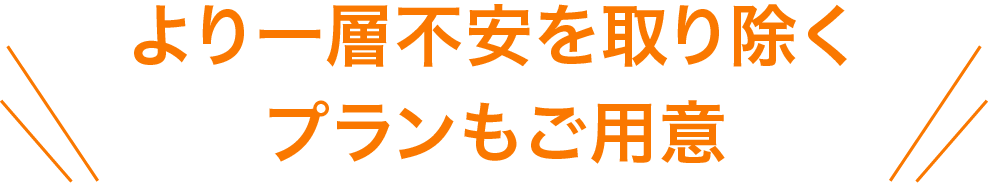
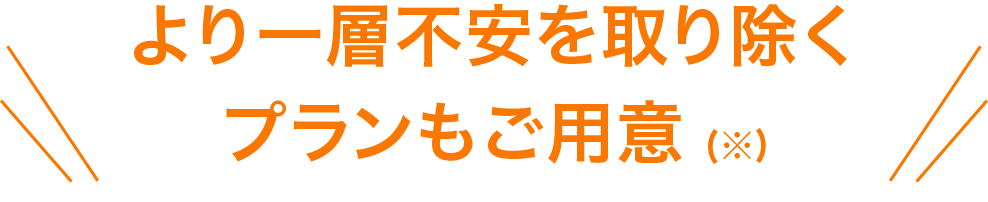
リリース予定に変更

diff --git a/css/styles.min.css b/css/styles.min.css
@@ -1,1 +1,1 @@
-.Header{width:100%;height:140px;background-color:#ffffff}.Header__nav{width:100%;max-width:960px;height:90px;display:flex;align-items:center;flex-flow:row;margin:0 auto;padding:0}@media screen and (max-width: 960px){.Header__nav{height:60px}}.Header__item{width:200px;margin-right:10px;list-style:none}@media screen and (max-width: 960px){.Header__item{width:33.3%;margin-right:0}}.Header__item:nth-child(1){width:120px;margin-right:auto}@media screen and (max-width: 960px){.Header__item:nth-child(1){width:33.3%}}.Header__itemInner1{width:100%}@media screen and (max-width: 960px){.Header__itemInner1{width:60%;margin:0 auto;margin-top:10px}}.Header__itemInner2,.Header__itemInner2--red{display:block;text-align:center;background-color:#ccc;color:#000000;width:100%;padding:10px 0px;border-radius:30px;color:#000}@media screen and (max-width: 960px){.Header__itemInner2,.Header__itemInner2--red{border-radius:0px;padding:20px 0px}}.Header__itemInner2--red{background-color:#ee275b;color:#ffffff}.Header__msg{width:100%;max-width:960px;height:50px;margin:0 auto;display:flex;align-items:center}@media screen and (max-width: 960px){.Header__msg{height:100px}}.Header__msgInner{display:block;width:100%;margin:0 auto;text-align:center;color:#00a0b9;font-weight:bold;font-size:24px}@media screen and (max-width: 960px){.Header__msgInner{padding-bottom:20px;font-size:20px}}@media screen and (max-width: 320px){.Header__msgInner{font-size:18px}}.Header__msgInner br{display:none}@media screen and (max-width: 960px){.Header__msgInner br{display:block}}.swiper-container{width:100%;max-width:1200px}@media screen and (max-width: 960px){.swiper-container{display:none}}.swiper-container .swiper-wrapper{width:100%;margin:0 auto}.swiper-container .swiper-wrapper .swiper__innerImg{width:100%;display:block;margin:0 auto}.swiper-container+.swiper-container{display:none}@media screen and (max-width: 960px){.swiper-container+.swiper-container{display:block}}@media screen and (max-width: 960px){.swiper-container .slide-btn-sp{display:none}}.Catch{width:100%;height:auto;margin:0 auto;padding-bottom:40px;background-color:#ffffff}.Catch__contents{width:100%;max-width:960px;margin:0 auto;height:auto;background-color:#ffffff}.Catch__section{padding-top:30px}@media screen and (max-width: 960px){.Catch__section{padding:30px 5px 0 5px}}.Catch__Catch_ttl{width:100%;margin:0 auto}.Catch__ttlInner,.Catch__ttlInner--sp{width:80%;display:block;margin:0 auto}@media screen and (max-width: 960px){.Catch__ttlInner,.Catch__ttlInner--sp{display:none}}.Catch__ttlInner--sp{display:none}@media screen and (max-width: 960px){.Catch__ttlInner--sp{display:block;margin:0 auto}}.Catch__txt{text-align:center;font-size:24px}@media screen and (max-width: 960px){.Catch__txt{font-size:20px}}@media screen and (max-width: 320px){.Catch__txt{font-size:17px}}.Catch__txt span{color:#fa7800;font-size:30px;font-weight:bold}@media screen and (max-width: 960px){.Catch__txt span{font-size:23px}}@media screen and (max-width: 320px){.Catch__txt span{font-size:20px}}.Catch__btn,.Catch__btn--orange{display:block;background-color:#e6e6e6;color:#808080;width:75%;text-align:center;margin:0 auto;margin-top:20px;padding:10px 0;font-size:20px;text-decoration:none;border-radius:30px}@media screen and (max-width: 960px){.Catch__btn,.Catch__btn--orange{font-size:18px;width:90%}}@media screen and (max-width: 320px){.Catch__btn,.Catch__btn--orange{font-size:15px}}.Catch__btn--orange{color:#fa7800;background-color:#fff;border:1px solid #fa7800}.Problem{width:100%;background-color:#f2f2f2;height:auto}.Problem__bg{width:100%;height:auto;background-color:#a6a6a6;-webkit-clip-path:polygon(0 0, 100% 0, 100% 75%, 50% 97%, 0 75%);clip-path:polygon(0 0, 100% 0, 100% 75%, 50% 97%, 0 75%)}.Problem__contents{width:100%;max-width:960px;margin:0 auto;height:auto;background-color:#a6a6a6}.Problem__section{padding-top:30px}.Problem__imgBox{background-color:#a6a6a6}.Problem__img{display:block;margin:0 auto;width:70%}@media screen and (max-width: 960px){.Problem__img{width:95%}}.LashicRoom{width:100%;height:auto;margin:0 auto;padding-bottom:80px;background-color:#f2f2f2;position:relative;margin-bottom:30px}.LashicRoom__contents{width:100%;max-width:960px;margin:0 auto;height:auto;background-color:#f2f2f2}.LashicRoom__section{padding-top:30px}.LashicRoom__ttl{width:100%;margin:0}.LashicRoom__ttlInner{width:50%;display:block;margin:0 auto}@media screen and (max-width: 960px){.LashicRoom__ttlInner{width:80%}}.LashicRoom__mainImgs{display:flex;justify-content:center;margin-top:40px;align-items:center}@media screen and (max-width: 960px){.LashicRoom__mainImgs{display:flex;flex-flow:column}}.LashicRoom__mainImg{width:40%}@media screen and (max-width: 960px){.LashicRoom__mainImg{width:90%}}.LashicRoom__txt1{margin:0 auto;margin-right:10px;margin-left:10px}@media screen and (max-width: 960px){.LashicRoom__txt1{display:flex;align-items:center;color:#fa7800;font-weight:bold;padding-left:65px;font-size:25px}}.LashicRoom__txt1 span{display:block;text-align:center;background-color:#fa7800;margin-bottom:5px;padding:10px;border-radius:50%;color:#ffffff}@media screen and (max-width: 960px){.LashicRoom__txt1 span{margin:20px;width:40px;padding:0}}.LashicRoom__msg{width:100%;margin:0 auto;margin-top:40px}.LashicRoom__msgInner{width:60%;display:block;margin:0 auto}@media screen and (max-width: 960px){.LashicRoom__msgInner{width:80%}}.LashicRoom__txt2{text-align:center;font-size:24px}@media screen and (max-width: 960px){.LashicRoom__txt2{font-size:14px;padding:0 5px;font-weight:bold}}@media screen and (max-width: 320px){.LashicRoom__txt2{font-size:12px}}.LashicRoom__txt2 span{color:#fa7800;font-size:30px;font-weight:bold}@media screen and (max-width: 960px){.LashicRoom__txt2 span{font-size:17px}}@media screen and (max-width: 320px){.LashicRoom__txt2 span{font-size:14px}}.LashicRoom__btn{display:block;background-color:#ffffff;color:#fa7800;width:75%;text-align:center;margin:0 auto;margin-top:40px;padding:10px 0;font-size:20px;text-decoration:none;border-radius:30px;border:1px solid #fa7800}.LashicRoom__btn:hover{cursor:pointer}@media screen and (max-width: 960px){.LashicRoom__btn{width:90%;font-size:18px}}@media screen and (max-width: 320px){.LashicRoom__btn{font-size:15px}}.LashicRoom__triangle{position:absolute;bottom:-4.5%;width:100%}@media screen and (max-width: 960px){.LashicRoom__triangle{bottom:-2.5%}}.LashicRoom__triangle p{display:block;text-align:center;width:100%;margin:0 auto;color:#7bcedb;font-size:50px}.BestPlice{width:100%;height:auto;margin:0 auto;background-color:#ffffff;padding-top:20px;padding-bottom:40px}@media screen and (max-width: 960px){.BestPlice{padding-bottom:10px}}.BestPlice__contents{width:100%;max-width:960px;margin:0 auto;height:auto;background-color:#ffffff}.BestPlice__section{width:100%}.BestPlice__ttl{width:100%;margin:0 auto}.BestPlice__ttlInner{width:40%;display:block;margin:0 auto}@media screen and (max-width: 960px){.BestPlice__ttlInner{width:70%}}.BestPlice__ttl2{width:100%;margin:auto;padding-bottom:30px}.BestPlice__ttl2Inner{width:55%;display:block;margin:0 auto}@media screen and (max-width: 960px){.BestPlice__ttl2Inner{width:85%}}.BestPlice__plan{text-align:center;font-size:26px;border:2px solid #00a0b9;width:75%;margin:0 auto;margin-bottom:40px;padding:10px;color:#00a0b9}@media screen and (max-width: 960px){.BestPlice__plan{width:95%;font-size:18px}}.BestPlice__priceList{display:flex;justify-content:space-between;width:75%;margin:0 auto;align-items:center}@media screen and (max-width: 960px){.BestPlice__priceList{width:95%}}.BestPlice__priceImg{display:block;width:45%}.BestPlice__plus{font-size:30px;font-weight:900;border:none;margin-bottom:0;color:#000000}.BestPlice__caution{display:block;width:75%;margin:0 auto;margin-top:20px}@media screen and (max-width: 960px){.BestPlice__caution{font-size:9px;margin-left:3%}}.BestPlice__triangle{display:block;margin-top:40px;text-align:center;color:#7bcedb;font-size:50px}@media screen and (max-width: 960px){.BestPlice__triangle{margin-top:10px;font-size:50px}}.Label1{width:100%;height:auto;margin:0 auto;background:-moz-linear-gradient(top, #009fd2, #00d0cd);background:-webkit-linear-gradient(top, #009fd2, #00d0cd);background:linear-gradient(to bottom, #009fd2, #00d0cd)}.Label1__contents{width:100%;max-width:960px;margin:0 auto;height:auto;background:-moz-linear-gradient(top, #009fd2, #00d0cd);background:-webkit-linear-gradient(top, #009fd2, #00d0cd);background:linear-gradient(to bottom, #009fd2, #00d0cd)}.Label1__txt{width:100%;text-align:center;line-height:120px;font-size:28px;color:#ffffff}@media screen and (max-width: 960px){.Label1__txt{line-height:70px;font-size:18px}}.PlicePlan{width:100%;height:auto;margin:0 auto;padding-top:40px;padding-bottom:40px}.PlicePlan__contents{width:100%;max-width:960px;margin:0 auto;height:auto}.PlicePlan__firstBox{display:flex;flex-flow:column;border:1px solid #00a0b9;width:90%;margin:0 auto}.PlicePlan__firstBoxLabel{text-align:center;background-color:#00a0b9;color:#ffffff;font-size:28px;padding:10px 0}@media screen and (max-width: 960px){.PlicePlan__firstBoxLabel{font-size:16px}}.PlicePlan__firstBoxForm{display:flex;justify-content:center;align-items:center;padding:10px 0}.PlicePlan__firstBoxFormInput{border:1px solid #ccc;margin-right:10px}.PlicePlan__firstBoxFormTxt{background-color:#fff;color:#000000;font-size:24px}.PlicePlan__planList{display:flex;justify-content:space-between;width:90%;margin:0 auto;margin-top:20px}@media screen and (max-width: 960px){.PlicePlan__planList{width:98%;margin-top:10px}}.PlicePlan__planBox{display:flex;flex-flow:column;width:32%;min-width:240px}@media screen and (max-width: 860px){.PlicePlan__planBox{min-width:104px;margin:0 auto}}.PlicePlan__planBoxPlus,.PlicePlan__planBoxPlus--1{text-align:center;font-size:50px}@media screen and (max-width: 860px){.PlicePlan__planBoxPlus,.PlicePlan__planBoxPlus--1{font-size:20px}}.PlicePlan__planBoxPlus--1{display:block}.PlicePlan__plan,.PlicePlan__plan--recommend{display:flex;flex-flow:column;border:1px solid #00a0b9;margin-top:20px}@media screen and (max-width: 960px){.PlicePlan__plan,.PlicePlan__plan--recommend{margin-top:5px}}.PlicePlan__plan--recommend{position:relative}.PlicePlan__plan--recommend img{width:30%;position:absolute;top:-14%;left:-14%}@media screen and (max-width: 960px){.PlicePlan__plan--recommend img{top:-12%;left:-4%}}.PlicePlan__pliceLabel{text-align:center;background-color:#00a0b9;color:#ffffff;font-size:28px;padding:10px 0}@media screen and (max-width: 960px){.PlicePlan__pliceLabel{font-size:12px}}.PlicePlan__pliceContent{display:flex;flex-flow:column;padding:20px}@media screen and (max-width: 960px){.PlicePlan__pliceContent{padding:0px;padding-bottom:15px;padding-top:10px}}.PlicePlan__txt1,.PlicePlan__txt1--perMonth{text-align:center;color:#fa7800;font-weight:bold;font-size:21px}@media screen and (max-width: 960px){.PlicePlan__txt1,.PlicePlan__txt1--perMonth{font-size:12px}}.PlicePlan__txt1 span,.PlicePlan__txt1--perMonth span{font-size:55px}@media screen and (max-width: 960px){.PlicePlan__txt1 span,.PlicePlan__txt1--perMonth span{font-size:21px}}.PlicePlan__txt1--perMonth{line-height:110px}@media screen and (max-width: 960px){.PlicePlan__txt1--perMonth{line-height:393%}}.PlicePlan__txt2{text-align:center;font-weight:bold}@media screen and (max-width: 960px){.PlicePlan__txt2{font-size:6px}}.PlicePlan__txt2 span{font-size:28px}@media screen and (max-width: 960px){.PlicePlan__txt2 span{font-size:11px}}.PlicePlan__txt3{text-align:center;background-color:#ee275b;width:90%;margin:0 auto;margin-top:20px;border-radius:5px;font-size:24px;color:#ffffff;padding:10px 0;box-shadow:0px 4px 0px 0px #b2095b;outline:none;border:none}.PlicePlan__txt3:hover{cursor:pointer}.PlicePlan__txt3:active{box-shadow:none;transform:translate3d(0, 4px, 0)}@media screen and (max-width: 960px){.PlicePlan__txt3{font-size:12px;margin-top:9px}}.PlicePlan__caution{width:90%;text-align:left;margin:0 auto;margin-top:20px}@media screen and (max-width: 960px){.PlicePlan__caution{font-size:9px;margin-top:8px}}.PlicePlan__more{display:block;width:40%;margin:0 auto;margin-top:40px}@media screen and (max-width: 960px){.PlicePlan__more{width:80%}}.PlicePlan__sleepImg{display:block;width:93%;margin:0 auto;margin-top:20px}.PlicePlan__callImg{display:block;width:93%;margin:0 auto}.Application{width:100%;height:auto;margin:0 auto}.Application__contents{width:100%;max-width:960px;margin:0 auto;height:auto;padding:40px;padding-bottom:80px}@media screen and (max-width: 960px){.Application__contents{width:100%;padding:10px;padding-top:20px;padding-bottom:30px}}.Application__box,.Application__box--1{border:1px solid #00a0b9;width:80%;border-radius:5px;margin:0 auto;margin-bottom:30px;padding:18px 0px;position:relative;overflow:hidden;text-align:center}.Application__box:nth-of-type(4),.Application__box--1:nth-of-type(4){margin-bottom:10px}@media screen and (max-width: 960px){.Application__box,.Application__box--1{width:100%;padding:10px;margin-bottom:5%}}.Application__box--1::before{position:absolute;top:45%;left:20%;width:0;height:0;padding:0;content:"";border-left:12px solid transparent;border-right:12px solid transparent;border-top:12px solid #00a0b9;pointer-events:none}@media screen and (max-width: 960px){.Application__box--1::before{left:10%;border-left:6px solid transparent;border-right:6px solid transparent;border-top:6px solid #00a0b9}}.Application__select{width:100%;cursor:pointer;text-indent:28%;border:none;outline:none !important;background-color:white;background-image:none;box-shadow:none;-webkit-appearance:none;appearance:none;outline:none;font-size:24px}@media screen and (max-width: 960px){.Application__select{font-size:14px;text-indent:15%}}.Application__select::-ms-expand{display:none}.Application__innerTxt{text-align:center;font-size:24px;display:flex;justify-content:center}.Application__innerTxt input{margin-right:20px}@media screen and (max-width: 960px){.Application__innerTxt{font-size:14px}}.Application__price{text-align:center;font-size:24px;text-align:left;padding-left:7%}@media screen and (max-width: 960px){.Application__price{font-size:13px}}.Application__monthPrice{font-size:32px}.Application__caution{width:80%;text-align:left;margin:0 auto;margin-bottom:40px}@media screen and (max-width: 960px){.Application__caution{font-size:9px;margin-left:2%}}.Application__btn{display:block;text-align:center;width:80%;margin:0 auto;background-color:#ee275b;color:#ffffff;border-radius:5px;padding:20px 0;font-size:28px;box-shadow:0px 4px 0px 0px #b2095b;outline:0;border:none}.Application__btn:active{box-shadow:none;transform:translate3d(0, 4px, 0)}@media screen and (max-width: 960px){.Application__btn{width:100%;font-size:16px}}.Media{width:100%;height:auto;margin:0 auto}.Media__contents{width:100%;margin:0 auto;height:auto;background-color:#db2a26}.Media__txt{width:100%;text-align:center;line-height:120px;font-size:28px;color:#ffffff}@media screen and (max-width: 960px){.Media__txt{font-size:17px;line-height:70px}}.Media__box{max-width:960px;margin:0 auto;padding:85px 0;display:flex;justify-content:space-between;align-items:center;width:90%}@media screen and (max-width: 960px){.Media__box{flex-flow:column;padding:none}}@media screen and (max-width: 960px){.Media__news{margin-bottom:40px}}@media screen and (max-width: 960px){.Media__market{margin-bottom:40px;width:100%}}.Life{width:100%;height:auto;margin:0 auto}.Life__label{width:100%;background-color:#fff;max-height:150px}.Life__label:before{content:"";display:block;padding-top:20%}.Life__head{width:100%;height:auto;background-color:#00a0b9}.Life__contents1{width:100%;max-width:960px;margin:0 auto;height:150px;position:relative}@media screen and (min-width: 800px) and (max-width: 960px){.Life__contents1{height:150px}}@media screen and (max-width: 650px){.Life__contents1{height:70px}}.Life__headImg,.Life__headImg--sp{display:block;width:80%;margin:0 auto;position:absolute;bottom:0;left:12%}@media screen and (max-width: 960px){.Life__headImg,.Life__headImg--sp{width:70%;left:17%;display:none}}.Life__headImg--sp{display:none}@media screen and (max-width: 960px){.Life__headImg--sp{display:block}}.Life__contents2{width:100%;max-width:960px;height:auto;margin:0 auto;padding:60px}@media screen and (max-width: 960px){.Life__contents2{padding:30px}}.Life__contentImg{display:block;width:100%;margin-bottom:60px}.Life__contentTxt{line-height:30px}@media screen and (max-width: 960px){.Life__contentTxt{font-size:14px;line-height:23px}}input[type="checkbox"]{display:none}input[type="checkbox"]+label{display:block;position:relative;padding-left:35px;margin-bottom:20px;font:24px/28px "Open Sans", Arial, sans-serif;color:#000;cursor:pointer;-webkit-user-select:none;-moz-user-select:none;-ms-user-select:none}@media screen and (max-width: 960px){input[type="checkbox"]+label{font-size:13px}}input[type="checkbox"]+label:last-child{margin-bottom:0}input[type="checkbox"]+label:before{content:"";display:block;width:24px;height:24px;border:1px solid #6cc0e5;position:absolute;left:0;top:0;opacity:0.6;-webkit-transition:all 0.12s, border-color 0.08s;transition:all 0.12s, border-color 0.08s}@media screen and (max-width: 960px){input[type="checkbox"]+label:before{width:17px;height:17px;top:10%}}input[type="checkbox"]:checked+label:before{width:10px;top:-5px;left:5px;border-radius:0;opacity:1;border-top-color:transparent;border-left-color:transparent;-webkit-transform:rotate(45deg);transform:rotate(45deg)}.Detail__Ttl{width:100%;text-align:center;line-height:100px;text-align:center;font-size:22px;color:#fff;background-color:#999999}@media screen and (max-width: 960px){.Detail__Ttl{font-size:17px;line-height:70px}}.Detail__wrapper{width:100%;max-width:1200px;margin:40px auto}.Detail__content+.Detail__content{margin-top:30px}.Detail__headOuter{width:90%;margin:0 auto;padding:13px 0 12px;border:1px solid #00aec7}@media screen and (max-width: 960px){.Detail__headOuter{padding:10px 7px 6px}}.Detail__head{font-size:22px;text-align:center;color:#00aec7}@media screen and (max-width: 960px){.Detail__head{width:100%;font-size:13px}}.Detail__body{display:flex;justify-content:flex-start;margin:0 auto;margin-top:30px;width:90%}@media screen and (max-width: 960px){.Detail__body{flex-flow:column;margin-top:0px}}.Detail__imgOuter{width:50%;padding:50px;align-items:center}.Detail__imgOuter img{display:block;width:100%}@media screen and (max-width: 960px){.Detail__imgOuter{margin:0 auto;width:90%;padding:20px}}.Detail__txtOuter{width:50%}@media screen and (max-width: 960px){.Detail__txtOuter{margin:0 auto;width:100%}}.Detail__box+.Detail__box{margin-top:20px}@media screen and (max-width: 960px){.Detail__box{width:100%}}.Detail__boxTtl{padding:7px 10px 6px;text-align:center;font-size:18px;color:#fff;background-color:#00a0b9}@media screen and (max-width: 960px){.Detail__boxTtl{font-size:13px}}.Detail__boxTxt{margin-top:20px;font-size:18px}.Detail__boxTxt+.Detail__boxTxt{margin-top:6px}@media screen and (max-width: 960px){.Detail__boxTxt{font-size:14px}}.Detail__boxCaution{margin-top:8px}.Spec__Ttl{width:90%;margin:0 auto;padding-bottom:3px;font-size:22px;color:#00a0b9;border-bottom:1px solid #00a0b9}.Spec__body{display:flex;justify-content:space-around;flex-flow:row wrap;margin-top:30px}@media screen and (max-width: 960px){.Spec__body{flex-flow:column}}.Spec__boxOuter{width:440px;min-width:320px;font-size:16px}@media screen and (max-width: 960px){.Spec__boxOuter+.Spec__boxOuter{margin-top:30px}}.Spec__boxOuter+.Spec__boxOuter+.Spec__boxOuter{margin-top:30px}@media screen and (max-width: 960px){.Spec__boxOuter{margin:0 auto;width:90%}}.Spec__head{font-size:18px;color:#00a0b9}@media screen and (max-width: 960px){.Spec__head{font-size:13px;padding-left:5px}}.Spec__box{margin-top:15px;border:1px solid #e6e6e6}@media screen and (max-width: 960px){.Spec__box{margin-top:5px}}.Spec__boxTtl{padding:9px 20px 7px;background-color:#e6e6e6}@media screen and (max-width: 960px){.Spec__boxTtl{font-size:12px}}.Spec__boxTxt{padding:9px 20px 7px}@media screen and (max-width: 960px){.Spec__boxTxt{font-size:12px}}.Footer{width:100%;background-color:#cceef4;height:auto}.Footer__container{width:100%;height:80px;max-width:960px;margin:0 auto;display:flex;justify-content:space-around;align-items:center}@media screen and (max-width: 960px){.Footer__container{flex-flow:column;height:auto}}.Footer__link{text-align:center;color:#00aec7}@media screen and (max-width: 960px){.Footer__link{font-size:14px;width:90%;line-height:50px;border-bottom:1px solid}.Footer__link:last-child{border-bottom:none}}.Footer__copy{background-color:#fff;padding:20px}.Footer__copy p{text-align:center;color:#00aec7}@media screen and (max-width: 960px){.Footer__copy p{font-size:12px}}body{position:relative}body .toPageTop{width:60px;right:1%;bottom:10px;position:fixed}body .toPageTop:hover{opacity:.8;cursor:pointer}body .toPageTop img{width:100%}
+.Header{width:100%;height:140px;background-color:#ffffff}.Header__nav{width:100%;max-width:960px;height:90px;display:flex;align-items:center;flex-flow:row;margin:0 auto;padding:0}@media screen and (max-width: 960px){.Header__nav{height:60px}}.Header__item{width:200px;margin-right:10px;list-style:none}@media screen and (max-width: 960px){.Header__item{width:33.3%;margin-right:0}}.Header__item:nth-child(1){width:120px;margin-right:auto}@media screen and (max-width: 960px){.Header__item:nth-child(1){width:33.3%}}.Header__itemInner1{width:100%}@media screen and (max-width: 960px){.Header__itemInner1{width:60%;margin:0 auto;margin-top:10px}}.Header__itemInner2,.Header__itemInner2--red{display:block;text-align:center;background-color:#ccc;color:#000000;width:100%;padding:10px 0px;border-radius:30px;color:#000}@media screen and (max-width: 960px){.Header__itemInner2,.Header__itemInner2--red{border-radius:0px;padding:20px 0px}}.Header__itemInner2--red{background-color:#ee275b;color:#ffffff}.Header__msg{width:100%;max-width:960px;height:50px;margin:0 auto;display:flex;align-items:center}@media screen and (max-width: 960px){.Header__msg{height:100px}}.Header__msgInner{display:block;width:100%;margin:0 auto;text-align:center;color:#00a0b9;font-weight:bold;font-size:24px}@media screen and (max-width: 960px){.Header__msgInner{padding-bottom:20px;font-size:20px}}@media screen and (max-width: 320px){.Header__msgInner{font-size:18px}}.Header__msgInner br{display:none}@media screen and (max-width: 960px){.Header__msgInner br{display:block}}.swiper-container{width:100%;max-width:1200px}@media screen and (max-width: 960px){.swiper-container{display:none}}.swiper-container .swiper-wrapper{width:100%;margin:0 auto}.swiper-container .swiper-wrapper .swiper__innerImg{width:100%;display:block;margin:0 auto}.swiper-container+.swiper-container{display:none}@media screen and (max-width: 960px){.swiper-container+.swiper-container{display:block}}@media screen and (max-width: 960px){.swiper-container .slide-btn-sp{display:none}}.Catch{width:100%;height:auto;margin:0 auto;padding-bottom:40px;background-color:#ffffff}.Catch__contents{width:100%;max-width:960px;margin:0 auto;height:auto;background-color:#ffffff}.Catch__section{padding-top:30px}@media screen and (max-width: 960px){.Catch__section{padding:30px 5px 0 5px}}.Catch__Catch_ttl{width:100%;margin:0 auto}.Catch__ttlInner,.Catch__ttlInner--sp{width:80%;display:block;margin:0 auto}@media screen and (max-width: 960px){.Catch__ttlInner,.Catch__ttlInner--sp{display:none}}.Catch__ttlInner--sp{display:none}@media screen and (max-width: 960px){.Catch__ttlInner--sp{display:block;margin:0 auto}}.Catch__txt{text-align:center;font-size:24px}@media screen and (max-width: 960px){.Catch__txt{font-size:20px}}@media screen and (max-width: 320px){.Catch__txt{font-size:17px}}.Catch__txt span{color:#fa7800;font-size:30px;font-weight:bold}@media screen and (max-width: 960px){.Catch__txt span{font-size:23px}}@media screen and (max-width: 320px){.Catch__txt span{font-size:20px}}.Catch__btn,.Catch__btn--orange{display:block;background-color:#e6e6e6;color:#808080;width:75%;text-align:center;margin:0 auto;margin-top:20px;padding:10px 0;font-size:20px;text-decoration:none;border-radius:30px}@media screen and (max-width: 960px){.Catch__btn,.Catch__btn--orange{font-size:18px;width:90%}}@media screen and (max-width: 320px){.Catch__btn,.Catch__btn--orange{font-size:15px}}.Catch__btn--orange{color:#fa7800;background-color:#fff;border:1px solid #fa7800}.Problem{width:100%;background-color:#f2f2f2;height:auto}.Problem__bg{width:100%;height:auto;background-color:#a6a6a6;-webkit-clip-path:polygon(0 0, 100% 0, 100% 75%, 50% 97%, 0 75%);clip-path:polygon(0 0, 100% 0, 100% 75%, 50% 97%, 0 75%)}.Problem__contents{width:100%;max-width:960px;margin:0 auto;height:auto;background-color:#a6a6a6}.Problem__section{padding-top:30px}.Problem__imgBox{background-color:#a6a6a6}.Problem__img{display:block;margin:0 auto;width:70%}@media screen and (max-width: 960px){.Problem__img{width:95%}}.LashicRoom{width:100%;height:auto;margin:0 auto;padding-bottom:80px;background-color:#f2f2f2;position:relative;margin-bottom:30px}.LashicRoom__contents{width:100%;max-width:960px;margin:0 auto;height:auto;background-color:#f2f2f2}.LashicRoom__section{padding-top:30px}.LashicRoom__ttl{width:100%;margin:0}.LashicRoom__ttlInner{width:50%;display:block;margin:0 auto}@media screen and (max-width: 960px){.LashicRoom__ttlInner{width:80%}}.LashicRoom__mainImgs{display:flex;justify-content:center;margin-top:40px;align-items:center}@media screen and (max-width: 960px){.LashicRoom__mainImgs{display:flex;flex-flow:column}}.LashicRoom__mainImg{width:40%}@media screen and (max-width: 960px){.LashicRoom__mainImg{width:90%}}.LashicRoom__txt1{margin:0 auto;margin-right:10px;margin-left:10px}@media screen and (max-width: 960px){.LashicRoom__txt1{display:flex;align-items:center;color:#fa7800;font-weight:bold;padding-left:65px;font-size:25px}}.LashicRoom__txt1 span{display:block;text-align:center;background-color:#fa7800;margin-bottom:5px;padding:10px;border-radius:50%;color:#ffffff}@media screen and (max-width: 960px){.LashicRoom__txt1 span{margin:20px;width:40px;padding:0}}.LashicRoom__msg{width:100%;margin:0 auto;margin-top:40px}.LashicRoom__msgInner{width:60%;display:block;margin:0 auto}@media screen and (max-width: 960px){.LashicRoom__msgInner{width:80%}}.LashicRoom__txt2{text-align:center;font-size:24px}@media screen and (max-width: 960px){.LashicRoom__txt2{font-size:14px;padding:0 5px;font-weight:bold}}@media screen and (max-width: 320px){.LashicRoom__txt2{font-size:12px}}.LashicRoom__txt2 span{color:#fa7800;font-size:30px;font-weight:bold}@media screen and (max-width: 960px){.LashicRoom__txt2 span{font-size:17px}}@media screen and (max-width: 320px){.LashicRoom__txt2 span{font-size:14px}}.LashicRoom__btn{display:block;background-color:#ffffff;color:#fa7800;width:75%;text-align:center;margin:0 auto;margin-top:40px;padding:10px 0;font-size:20px;text-decoration:none;border-radius:30px;border:1px solid #fa7800}.LashicRoom__btn:hover{cursor:pointer}@media screen and (max-width: 960px){.LashicRoom__btn{width:90%;font-size:18px}}@media screen and (max-width: 320px){.LashicRoom__btn{font-size:15px}}.LashicRoom__triangle{position:absolute;bottom:-4.5%;width:100%}@media screen and (max-width: 960px){.LashicRoom__triangle{bottom:-2.5%}}.LashicRoom__triangle p{display:block;text-align:center;width:100%;margin:0 auto;color:#7bcedb;font-size:50px}.BestPlice{width:100%;height:auto;margin:0 auto;background-color:#ffffff;padding-top:20px;padding-bottom:40px}@media screen and (max-width: 960px){.BestPlice{padding-bottom:10px}}.BestPlice__contents{width:100%;max-width:960px;margin:0 auto;height:auto;background-color:#ffffff}.BestPlice__section{width:100%}.BestPlice__ttl{width:100%;margin:0 auto}.BestPlice__ttlInner{width:40%;display:block;margin:0 auto}@media screen and (max-width: 960px){.BestPlice__ttlInner{width:70%}}.BestPlice__ttl2{width:100%;margin:auto;padding-bottom:30px}.BestPlice__ttl2Inner{width:55%;display:block;margin:0 auto}@media screen and (max-width: 960px){.BestPlice__ttl2Inner{width:85%}}.BestPlice__plan{text-align:center;font-size:26px;border:2px solid #00a0b9;width:75%;margin:0 auto;margin-bottom:40px;padding:10px;color:#00a0b9}@media screen and (max-width: 960px){.BestPlice__plan{width:95%;font-size:18px}}.BestPlice__priceList{display:flex;justify-content:space-between;width:75%;margin:0 auto;align-items:center}@media screen and (max-width: 960px){.BestPlice__priceList{width:95%}}.BestPlice__priceImg{display:block;width:45%}.BestPlice__plus{font-size:30px;font-weight:900;border:none;margin-bottom:0;color:#000000}.BestPlice__caution{display:block;width:75%;margin:0 auto;margin-top:20px}@media screen and (max-width: 960px){.BestPlice__caution{font-size:9px;margin-left:3%}}.BestPlice__triangle{display:block;margin-top:40px;text-align:center;color:#7bcedb;font-size:50px}@media screen and (max-width: 960px){.BestPlice__triangle{margin-top:10px;font-size:50px}}.Label1{width:100%;height:auto;margin:0 auto;background:-moz-linear-gradient(top, #009fd2, #00d0cd);background:-webkit-linear-gradient(top, #009fd2, #00d0cd);background:linear-gradient(to bottom, #009fd2, #00d0cd)}.Label1__contents{width:100%;max-width:960px;margin:0 auto;height:auto;background:-moz-linear-gradient(top, #009fd2, #00d0cd);background:-webkit-linear-gradient(top, #009fd2, #00d0cd);background:linear-gradient(to bottom, #009fd2, #00d0cd)}.Label1__txt{width:100%;text-align:center;line-height:120px;font-size:28px;color:#ffffff}@media screen and (max-width: 960px){.Label1__txt{line-height:70px;font-size:18px}}.PlicePlan{width:100%;height:auto;margin:0 auto;padding-top:40px;padding-bottom:40px}.PlicePlan__contents{width:100%;max-width:960px;margin:0 auto;height:auto}.PlicePlan__firstBox{display:flex;flex-flow:column;border:1px solid #00a0b9;width:90%;margin:0 auto}.PlicePlan__firstBoxLabel{text-align:center;background-color:#00a0b9;color:#ffffff;font-size:28px;padding:10px 0}@media screen and (max-width: 960px){.PlicePlan__firstBoxLabel{font-size:16px}}.PlicePlan__firstBoxForm{display:flex;justify-content:center;align-items:center;padding:10px 0}.PlicePlan__firstBoxFormInput{border:1px solid #ccc;margin-right:10px}.PlicePlan__firstBoxFormTxt{background-color:#fff;color:#000000;font-size:24px}.PlicePlan__planList{display:flex;justify-content:space-between;width:90%;margin:0 auto;margin-top:20px}@media screen and (max-width: 960px){.PlicePlan__planList{width:98%;margin-top:10px}}.PlicePlan__planBox{display:flex;flex-flow:column;width:32%;min-width:240px}@media screen and (max-width: 860px){.PlicePlan__planBox{min-width:104px;margin:0 auto}}.PlicePlan__planBoxPlus,.PlicePlan__planBoxPlus--1{text-align:center;font-size:50px}@media screen and (max-width: 860px){.PlicePlan__planBoxPlus,.PlicePlan__planBoxPlus--1{font-size:20px}}.PlicePlan__planBoxPlus--1{display:block}.PlicePlan__plan,.PlicePlan__plan--recommend{display:flex;flex-flow:column;border:1px solid #00a0b9;margin-top:20px}@media screen and (max-width: 960px){.PlicePlan__plan,.PlicePlan__plan--recommend{margin-top:5px}}.PlicePlan__plan--recommend{position:relative}.PlicePlan__plan--recommend img{width:30%;position:absolute;top:-14%;left:-14%}@media screen and (max-width: 960px){.PlicePlan__plan--recommend img{top:-12%;left:-4%}}.PlicePlan__pliceLabel{text-align:center;background-color:#00a0b9;color:#ffffff;font-size:28px;padding:10px 0}@media screen and (max-width: 960px){.PlicePlan__pliceLabel{font-size:12px}}.PlicePlan__pliceContent{display:flex;flex-flow:column;padding:20px}@media screen and (max-width: 960px){.PlicePlan__pliceContent{padding:0px;padding-bottom:15px;padding-top:10px}}.PlicePlan__txt1,.PlicePlan__txt1--perMonth{text-align:center;color:#fa7800;font-weight:bold;font-size:21px}@media screen and (max-width: 960px){.PlicePlan__txt1,.PlicePlan__txt1--perMonth{font-size:12px}}.PlicePlan__txt1 span,.PlicePlan__txt1--perMonth span{font-size:55px}@media screen and (max-width: 960px){.PlicePlan__txt1 span,.PlicePlan__txt1--perMonth span{font-size:21px}}.PlicePlan__txt1--perMonth{line-height:110px}@media screen and (max-width: 960px){.PlicePlan__txt1--perMonth{line-height:393%}}.PlicePlan__txt2{text-align:center;font-weight:bold}@media screen and (max-width: 960px){.PlicePlan__txt2{font-size:6px}}.PlicePlan__txt2 span{font-size:28px}@media screen and (max-width: 960px){.PlicePlan__txt2 span{font-size:11px}}.PlicePlan__txt3{text-align:center;background-color:#ee275b;width:90%;margin:0 auto;margin-top:20px;border-radius:5px;font-size:24px;color:#ffffff;padding:10px 0;box-shadow:0px 4px 0px 0px #b2095b;outline:none;border:none}.PlicePlan__txt3:hover{cursor:pointer}.PlicePlan__txt3:active{box-shadow:none;transform:translate3d(0, 4px, 0)}@media screen and (max-width: 960px){.PlicePlan__txt3{font-size:12px;margin-top:9px}}.PlicePlan__caution{width:90%;text-align:left;margin:0 auto;margin-top:20px}@media screen and (max-width: 960px){.PlicePlan__caution{font-size:9px;margin-top:8px}}.PlicePlan__more{display:block;width:40%;margin:0 auto;margin-top:40px}@media screen and (max-width: 960px){.PlicePlan__more{width:80%}}.PlicePlan__toBeRelease{width:100%;text-align:center}.PlicePlan__sleepImg{display:block;width:93%;margin:0 auto;margin-top:20px}.PlicePlan__callImg{display:block;width:93%;margin:0 auto}.Application{width:100%;height:auto;margin:0 auto}.Application__contents{width:100%;max-width:960px;margin:0 auto;height:auto;padding:40px;padding-bottom:80px}@media screen and (max-width: 960px){.Application__contents{width:100%;padding:10px;padding-top:20px;padding-bottom:30px}}.Application__box,.Application__box--1{border:1px solid #00a0b9;width:80%;border-radius:5px;margin:0 auto;margin-bottom:30px;padding:18px 0px;position:relative;overflow:hidden;text-align:center}.Application__box:nth-of-type(4),.Application__box--1:nth-of-type(4){margin-bottom:10px}@media screen and (max-width: 960px){.Application__box,.Application__box--1{width:100%;padding:10px;margin-bottom:5%}}.Application__box--1::before{position:absolute;top:45%;left:20%;width:0;height:0;padding:0;content:"";border-left:12px solid transparent;border-right:12px solid transparent;border-top:12px solid #00a0b9;pointer-events:none}@media screen and (max-width: 960px){.Application__box--1::before{left:10%;border-left:6px solid transparent;border-right:6px solid transparent;border-top:6px solid #00a0b9}}.Application__select{width:100%;cursor:pointer;text-indent:28%;border:none;outline:none !important;background-color:white;background-image:none;box-shadow:none;-webkit-appearance:none;appearance:none;outline:none;font-size:24px}@media screen and (max-width: 960px){.Application__select{font-size:14px;text-indent:15%}}.Application__select::-ms-expand{display:none}.Application__innerTxt{text-align:center;font-size:24px;display:flex;justify-content:center}.Application__innerTxt input{margin-right:20px}@media screen and (max-width: 960px){.Application__innerTxt{font-size:14px}}.Application__price{text-align:center;font-size:24px;text-align:left;padding-left:7%}@media screen and (max-width: 960px){.Application__price{font-size:13px}}.Application__monthPrice{font-size:32px}.Application__caution{width:80%;text-align:left;margin:0 auto;margin-bottom:40px}@media screen and (max-width: 960px){.Application__caution{font-size:9px;margin-left:2%}}.Application__btn{display:block;text-align:center;width:80%;margin:0 auto;background-color:#ee275b;color:#ffffff;border-radius:5px;padding:20px 0;font-size:28px;box-shadow:0px 4px 0px 0px #b2095b;outline:0;border:none}.Application__btn:active{box-shadow:none;transform:translate3d(0, 4px, 0)}@media screen and (max-width: 960px){.Application__btn{width:100%;font-size:16px}}.Media{width:100%;height:auto;margin:0 auto}.Media__contents{width:100%;margin:0 auto;height:auto;background-color:#db2a26}.Media__txt{width:100%;text-align:center;line-height:120px;font-size:28px;color:#ffffff}@media screen and (max-width: 960px){.Media__txt{font-size:17px;line-height:70px}}.Media__box{max-width:960px;margin:0 auto;padding:85px 0;display:flex;justify-content:space-between;align-items:center;width:90%}@media screen and (max-width: 960px){.Media__box{flex-flow:column;padding:none}}@media screen and (max-width: 960px){.Media__news{margin-bottom:40px}}@media screen and (max-width: 960px){.Media__market{margin-bottom:40px;width:100%}}.Life{width:100%;height:auto;margin:0 auto}.Life__label{width:100%;background-color:#fff;max-height:150px}.Life__label:before{content:"";display:block;padding-top:20%}.Life__head{width:100%;height:auto;background-color:#00a0b9}.Life__contents1{width:100%;max-width:960px;margin:0 auto;height:150px;position:relative}@media screen and (min-width: 800px) and (max-width: 960px){.Life__contents1{height:150px}}@media screen and (max-width: 650px){.Life__contents1{height:70px}}.Life__headImg,.Life__headImg--sp{display:block;width:80%;margin:0 auto;position:absolute;bottom:0;left:12%}@media screen and (max-width: 960px){.Life__headImg,.Life__headImg--sp{width:70%;left:17%;display:none}}.Life__headImg--sp{display:none}@media screen and (max-width: 960px){.Life__headImg--sp{display:block}}.Life__contents2{width:100%;max-width:960px;height:auto;margin:0 auto;padding:60px}@media screen and (max-width: 960px){.Life__contents2{padding:30px}}.Life__contentImg{display:block;width:100%;margin-bottom:60px}.Life__contentTxt{line-height:30px}@media screen and (max-width: 960px){.Life__contentTxt{font-size:14px;line-height:23px}}input[type="checkbox"]{display:none}input[type="checkbox"]+label{display:block;position:relative;padding-left:35px;margin-bottom:20px;font:24px/28px "Open Sans", Arial, sans-serif;color:#000;cursor:pointer;-webkit-user-select:none;-moz-user-select:none;-ms-user-select:none}@media screen and (max-width: 960px){input[type="checkbox"]+label{font-size:13px}}input[type="checkbox"]+label:last-child{margin-bottom:0}input[type="checkbox"]+label:before{content:"";display:block;width:24px;height:24px;border:1px solid #6cc0e5;position:absolute;left:0;top:0;opacity:0.6;-webkit-transition:all 0.12s, border-color 0.08s;transition:all 0.12s, border-color 0.08s}@media screen and (max-width: 960px){input[type="checkbox"]+label:before{width:17px;height:17px;top:10%}}input[type="checkbox"]:checked+label:before{width:10px;top:-5px;left:5px;border-radius:0;opacity:1;border-top-color:transparent;border-left-color:transparent;-webkit-transform:rotate(45deg);transform:rotate(45deg)}.Detail__Ttl{width:100%;text-align:center;line-height:100px;text-align:center;font-size:22px;color:#fff;background-color:#999999}@media screen and (max-width: 960px){.Detail__Ttl{font-size:17px;line-height:70px}}.Detail__wrapper{width:100%;max-width:1200px;margin:40px auto}.Detail__content+.Detail__content{margin-top:30px}.Detail__headOuter{width:90%;margin:0 auto;padding:13px 0 12px;border:1px solid #00aec7}@media screen and (max-width: 960px){.Detail__headOuter{padding:10px 7px 6px}}.Detail__head{font-size:22px;text-align:center;color:#00aec7}@media screen and (max-width: 960px){.Detail__head{width:100%;font-size:13px}}.Detail__body{display:flex;justify-content:flex-start;margin:0 auto;margin-top:30px;width:90%}@media screen and (max-width: 960px){.Detail__body{flex-flow:column;margin-top:0px}}.Detail__imgOuter{width:50%;padding:50px;align-items:center}.Detail__imgOuter img{display:block;width:100%}@media screen and (max-width: 960px){.Detail__imgOuter{margin:0 auto;width:90%;padding:20px}}.Detail__txtOuter{width:50%}@media screen and (max-width: 960px){.Detail__txtOuter{margin:0 auto;width:100%}}.Detail__box+.Detail__box{margin-top:20px}@media screen and (max-width: 960px){.Detail__box{width:100%}}.Detail__boxTtl{padding:7px 10px 6px;text-align:center;font-size:18px;color:#fff;background-color:#00a0b9}@media screen and (max-width: 960px){.Detail__boxTtl{font-size:13px}}.Detail__boxTxt{margin-top:20px;font-size:18px}.Detail__boxTxt+.Detail__boxTxt{margin-top:6px}@media screen and (max-width: 960px){.Detail__boxTxt{font-size:14px}}.Detail__boxCaution{margin-top:8px}.Spec__Ttl{width:90%;margin:0 auto;padding-bottom:3px;font-size:22px;color:#00a0b9;border-bottom:1px solid #00a0b9}.Spec__body{display:flex;justify-content:space-around;flex-flow:row wrap;margin-top:30px}@media screen and (max-width: 960px){.Spec__body{flex-flow:column}}.Spec__boxOuter{width:440px;min-width:320px;font-size:16px}@media screen and (max-width: 960px){.Spec__boxOuter+.Spec__boxOuter{margin-top:30px}}.Spec__boxOuter+.Spec__boxOuter+.Spec__boxOuter{margin-top:30px}@media screen and (max-width: 960px){.Spec__boxOuter{margin:0 auto;width:90%}}.Spec__head{font-size:18px;color:#00a0b9}@media screen and (max-width: 960px){.Spec__head{font-size:13px;padding-left:5px}}.Spec__box{margin-top:15px;border:1px solid #e6e6e6}@media screen and (max-width: 960px){.Spec__box{margin-top:5px}}.Spec__boxTtl{padding:9px 20px 7px;background-color:#e6e6e6}@media screen and (max-width: 960px){.Spec__boxTtl{font-size:12px}}.Spec__boxTxt{padding:9px 20px 7px}@media screen and (max-width: 960px){.Spec__boxTxt{font-size:12px}}.Footer{width:100%;background-color:#cceef4;height:auto}.Footer__container{width:100%;height:80px;max-width:960px;margin:0 auto;display:flex;justify-content:space-around;align-items:center}@media screen and (max-width: 960px){.Footer__container{flex-flow:column;height:auto}}.Footer__link{text-align:center;color:#00aec7}@media screen and (max-width: 960px){.Footer__link{font-size:14px;width:90%;line-height:50px;border-bottom:1px solid}.Footer__link:last-child{border-bottom:none}}.Footer__copy{background-color:#fff;padding:20px}.Footer__copy p{text-align:center;color:#00aec7}@media screen and (max-width: 960px){.Footer__copy p{font-size:12px}}body{position:relative}body .toPageTop{width:60px;right:1%;bottom:10px;position:fixed}body .toPageTop:hover{opacity:.8;cursor:pointer}body .toPageTop img{width:100%}

diff --git a/sass/_plice-plan.scss b/sass/_plice-plan.scss
@@ -49,11 +49,10 @@
             width: 90%;
             margin: 0 auto;
             margin-top: 20px;
-            @include max-screen($breakpoint-tablet){
+            @include max-screen($breakpoint-tablet) {
                 width: 98%;
                 margin-top: 10px;
             }
-
         }
         &__planBox {
             display: flex;
@@ -83,18 +82,18 @@
             border: 1px solid #00a0b9;
             margin-top: 20px;
             $this: &;
-            @include max-screen($breakpoint-tablet){
+            @include max-screen($breakpoint-tablet) {
                 margin-top: 5px;
             }
-            &--recommend{
+            &--recommend {
                 @extend #{$this};
                 position: relative;
-                img{
-                    width:30%;
+                img {
+                    width: 30%;
                     position: absolute;
                     top: -14%;
                     left: -14%;
-                    @include max-screen($breakpoint-tablet){
+                    @include max-screen($breakpoint-tablet) {
                         top: -12%;
                         left: -4%;
                     }
@@ -115,7 +114,7 @@
             display: flex;
             flex-flow: column;
             padding: 20px;
-            @include max-screen($breakpoint-tablet){
+            @include max-screen($breakpoint-tablet) {
                 padding: 0px;
                 padding-bottom: 15px;
                 padding-top: 10px;
@@ -139,7 +138,7 @@
             &--perMonth {
                 @extend #{$this};
                 line-height: 110px;
-                @include max-screen($breakpoint-tablet){
+                @include max-screen($breakpoint-tablet) {
                     line-height: 393%;
                 }
             }
@@ -187,9 +186,9 @@
             text-align: left;
             margin: 0 auto;
             margin-top: 20px;
-            @include max-screen($breakpoint-tablet){
+            @include max-screen($breakpoint-tablet) {
                 font-size: 9px;
-                margin-top:8px;
+                margin-top: 8px;
             }
         }
         &__more {
@@ -197,9 +196,13 @@
             width: 40%;
             margin: 0 auto;
             margin-top: 40px;
-            @include max-screen($breakpoint-tablet){
+            @include max-screen($breakpoint-tablet) {
                 width: 80%;
             }
+        }
+        &__toBeRelease {
+            width: 100%;
+            text-align: center;
         }
         &__sleepImg {
             display: block;

diff --git a/index.html b/index.html
@@ -214,6 +214,7 @@
                     </div>
                     <p class="PlicePlan__caution">※別途消費税がかかります</p>
                     <img class="PlicePlan__more" src="./images/container6_h2.png" alt="">
+                    <p class="PlicePlan__toBeRelease">※リリース予定</p>
                     <img class="PlicePlan__sleepImg" src="./images/lashic_sleep.png" alt="">
                     <img class="PlicePlan__callImg" src="./images/lashic_call.png" alt="">
                 </section>

diff --git a/css/styles.css b/css/styles.css
@@ -976,6 +976,11 @@
   }
 }
 
+.PlicePlan__toBeRelease {
+  width: 100%;
+  text-align: center;
+}
+
 .PlicePlan__sleepImg {
   display: block;
   width: 93%;
